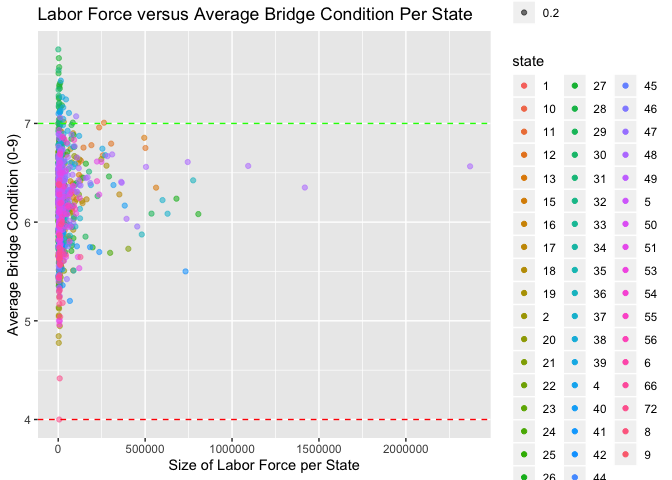
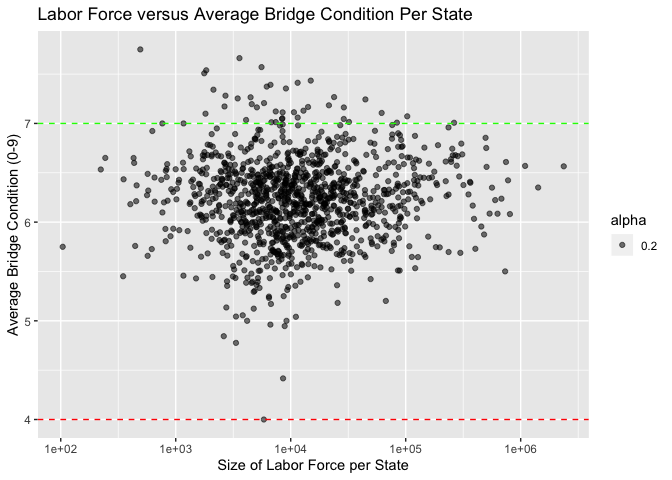
Changing some minor heading issues in my markdown format and adjusting the plots to make them more readable.

diff --git a/README.md b/README.md
@@ -366,15 +366,15 @@ rating has skyrocketed to an average of 8.5 in 2019 across all bridges.
 This tells me the quality of bridges has steadily increased since around
 1915.
 
-### Adding the BLS Unemployment Data
+Adding the BLS Unemployment Data
+================================
 
     # https://www.r-bloggers.com/using-blscraper-to-map-county-unemployment-data/
     library(blscrapeR)
     bls <- get_bls_county()
     # head(bls)
 
-Plot for all states
-===================
+### Plot for all states
 
     # Need state and county codes to be character to join on those variables
     bridge <- dt_small
@@ -400,19 +400,19 @@ Plot for all states
       group_by(state, labor_force) %>% 
       summarise(avg_cond = mean(overall_bridge_cond, na.rm = TRUE)) %>% 
       ggplot(aes(x = labor_force, y = avg_cond)) + 
-      geom_point(aes(colour = state, alpha = .2)) +
+      geom_point(aes(alpha = .2)) +
       xlab("Size of Labor Force per State") + 
       ylab("Average Bridge Condition (0-9)") +
       ggtitle("Labor Force versus Average Bridge Condition Per State") +
       geom_hline(yintercept = 7, linetype="dashed", color = "green") +
-      geom_hline(yintercept = 4, linetype="dashed", color = "red")
+      geom_hline(yintercept = 4, linetype="dashed", color = "red") +
+      scale_x_continuous(trans = 'log10')
 
     ## Warning: Removed 53 rows containing missing values (geom_point).
 
 ![](README_files/figure-markdown_strict/unnamed-chunk-8-1.png)
 
-Plot for Wisconsin
-==================
+### Plot for Wisconsin
 
     bridge %>% 
       select(bridge_id, year_built, state, county, overall_bridge_cond) %>%
@@ -423,12 +423,13 @@ Plot for Wisconsin
                 count = n()) %>% 
       filter(state == "55") %>% 
       ggplot(aes(x = labor_force, y = avg_cond)) + 
-      geom_point(aes(colour = county, size = count)) +
+      geom_point(aes(size = count, alpha = .2)) +
       xlab("Size of Labor force per County") +
       ylab("Average Bridge Condition (0-9)") +
-      ggtitle("Labor Force versus Average Bridge Condition Per County") +
+      ggtitle("Labor Force versus Average Bridge Condition Per County in Wisconsin") +
       geom_hline(yintercept = 7, linetype="dashed", color = "green") +
-      geom_hline(yintercept = 4, linetype="dashed", color = "red")
+      geom_hline(yintercept = 4, linetype="dashed", color = "red") +
+      scale_x_continuous(trans = 'log10')
 
     ## Warning: Removed 51 rows containing missing values (geom_point).
 
